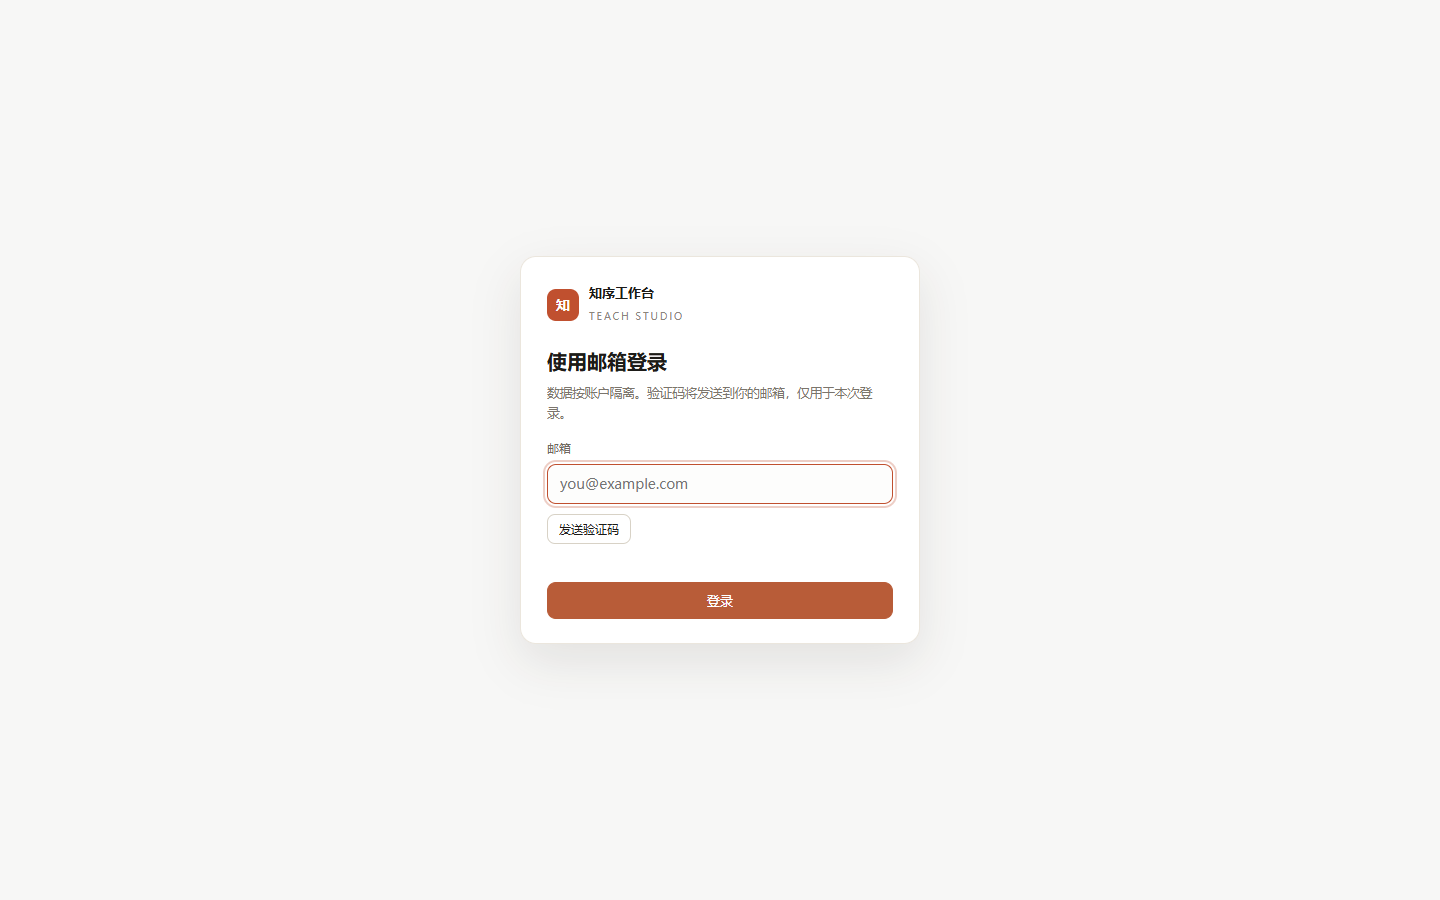
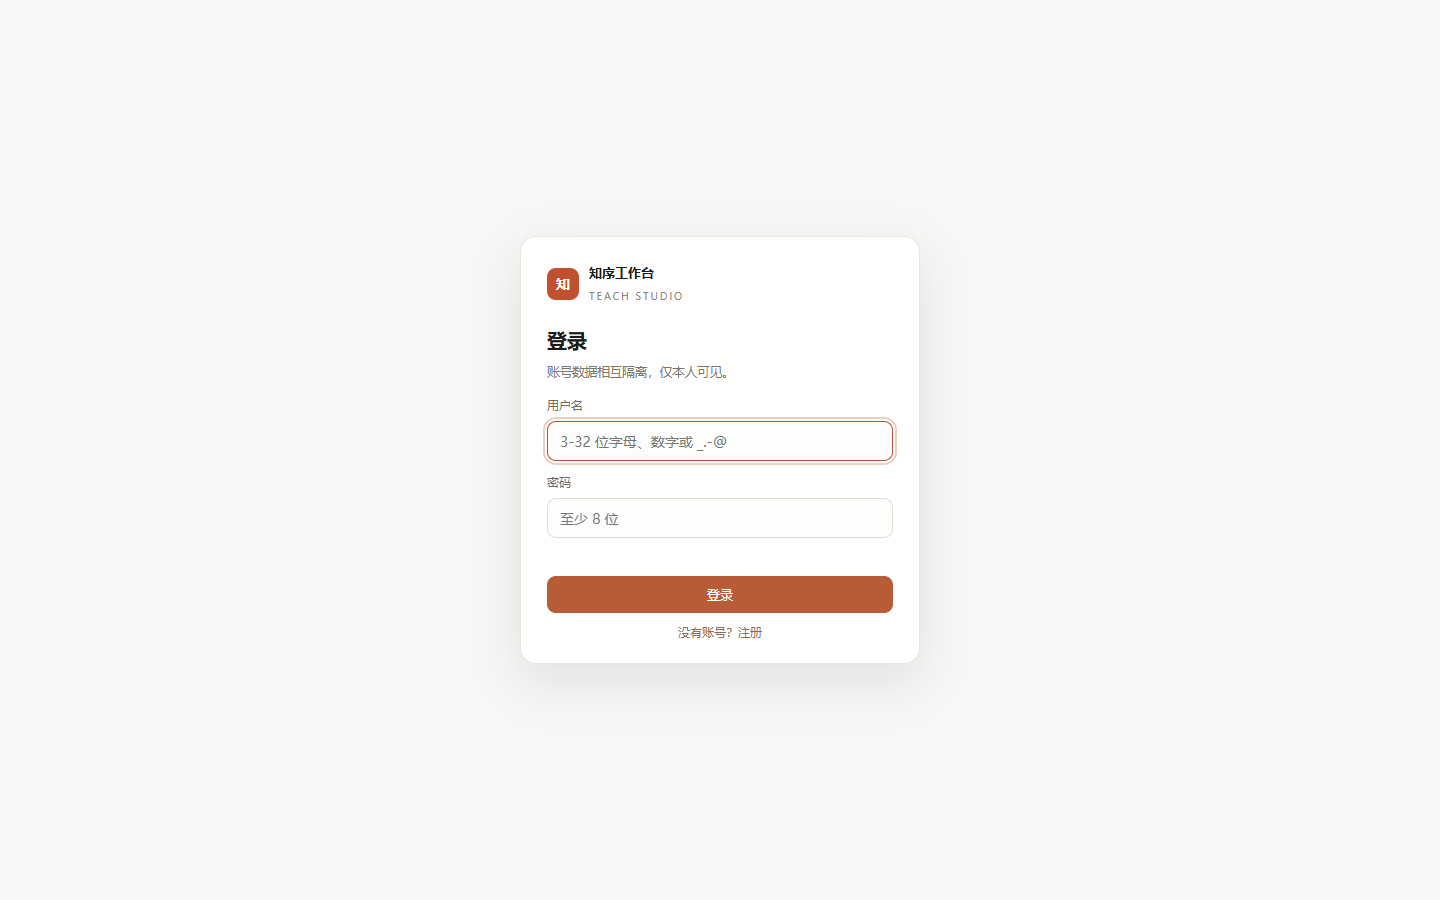
docs(project): 用最新版更新演示包与截图

Changed region(s): [[0.375, 0.28, 0.625, 0.7467]]

diff --git a/project/README.md b/project/README.md
@@ -1,6 +1,6 @@
-# 作品 Demo（project/）
+# 作品 Demo
 
-一套可直接演示的“教材 PDF/MD → 教案 → 原生 PPT”工作台。演示数据与真实数据隔离在
+一套可本地演示的“教材 PDF/MD → 教案 Word → 原生 PPT”工作台。演示数据隔离在
 `project/demo/data/`，不会污染仓库根目录的 `data/`。
 
 ## 目录
@@ -8,10 +8,10 @@
 ```
 project/
 ├─ demo/
-│  ├─ run_demo.ps1        # 一键：建演示账号+示例任务，启动服务
-│  ├─ seed_demo.py        # 通过 Flask 测试客户端写入种子数据（不调用模型）
+│  ├─ run_demo.ps1        # 一键：建演示账号 + 示例任务，启动服务
+│  ├─ seed_demo.py        # 用 Flask 测试客户端写入种子数据（不调用模型）
 │  ├─ inputs/             # 示例教材（Markdown / PDF）
-│  └─ screenshots/        # 关键界面截图
+│  └─ screenshots/        # 最新界面截图
 └─ README.md
 ```
 
@@ -28,12 +28,23 @@ powershell -ExecutionPolicy Bypass -File project/demo/run_demo.ps1
 
 ## 可演示的完整链路
 
-1. 注册/登录、账号数据隔离（换账号看不到对方的任务）。
-2. 教材 PDF→MD：上传 `demo/inputs/教材示例.pdf`，查看解析、Markdown 渲染与下载。
-3. MD→教案 Word：上传 `demo/inputs/教材示例.md`，生成教案、编辑、下载 DOCX。
-4. 教案+教材→PPT：演示任务里已放好参考资料与模板，点“生成大纲 → 生成 PPT”，
-   逐页预览、单页修改、确认并下载。
-5. 用户信息弹窗退出登录；模型管理里添加自己的推理/视觉模型。
+1. **账号体系**：注册 / 登录 / 退出；两个账号互相看不到对方的任务、文件与知识库。
+2. **模型管理**：在“模型管理”中添加自己的 OpenAI 兼容推理/视觉模型，测试连接、按用途启用；
+   未配置时使用服务端默认模型。
+3. **教材 PDF→MD**：上传 `demo/inputs/教材示例.pdf`，查看解析结果、Markdown 渲染与 ZIP 下载。
+4. **MD→教案 Word**：上传 `demo/inputs/教材示例.md`，生成教案、页内改字、下载 DOCX。
+5. **教案+教材→PPT**：种子任务已放好参考资料与模板。生成大纲 → 生成 PPT → 逐页预览 →
+   单页修改 → 需要时“取消任务” → 确认并下载。
+6. **异常处理**：生成失败会保留候选并显示“继续制作”；取消后已生成页仍作为候选保留。
 
-> 第 2–4 步的真实生成依赖模型服务与桌面 PowerPoint；没有配置模型时只能演示到建任务/大纲编辑。
-> 截图见 `demo/screenshots/`，可直接用于答辩演示。
+## 最新界面截图
+
+| 截图 | 对应能力 |
+|---|---|
+| `screenshots/01-登录注册.png` | 用户名 + 密码登录 / 注册 |
+| `screenshots/02-账户与数据隔离.png` | 登录后工作台与账号信息 |
+| `screenshots/03-用户信息与退出.png` | 用户信息弹窗内直接退出登录 |
+| `screenshots/04-模型管理.png` | 自定义推理 / 视觉模型表单 |
+| `screenshots/05-单页修改加载态.png` | 单页修改时预览置灰 + 加载圈 |
+
+> 第 2–5 步的真实生成依赖模型服务与桌面 PowerPoint；没有配置模型时只能演示到建任务/大纲编辑。
